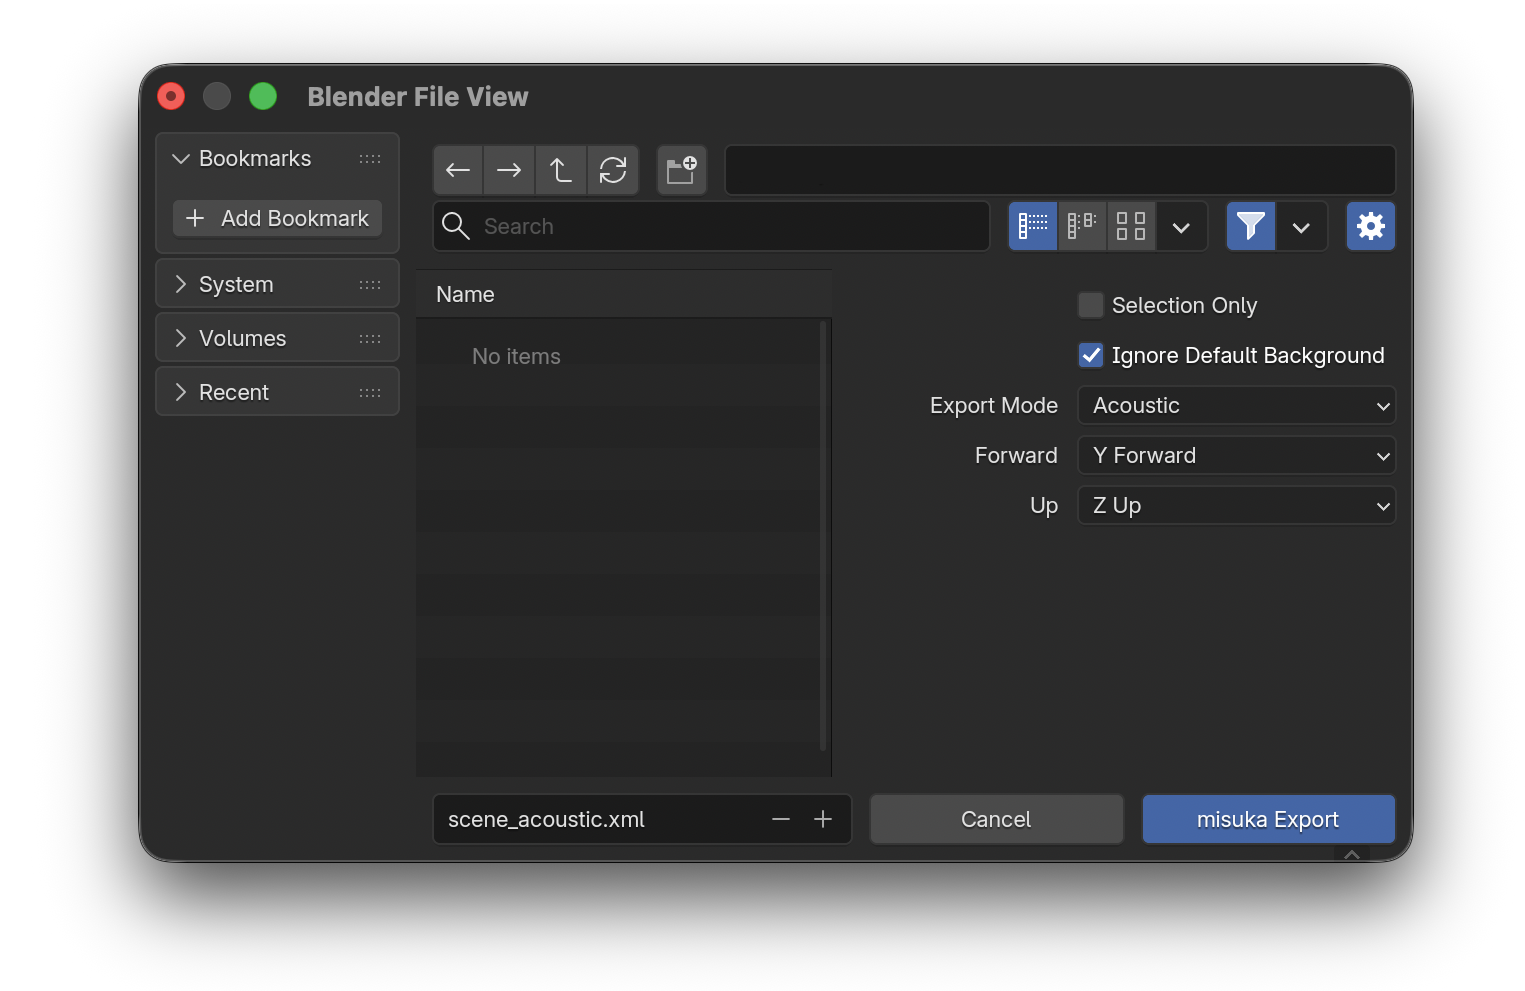
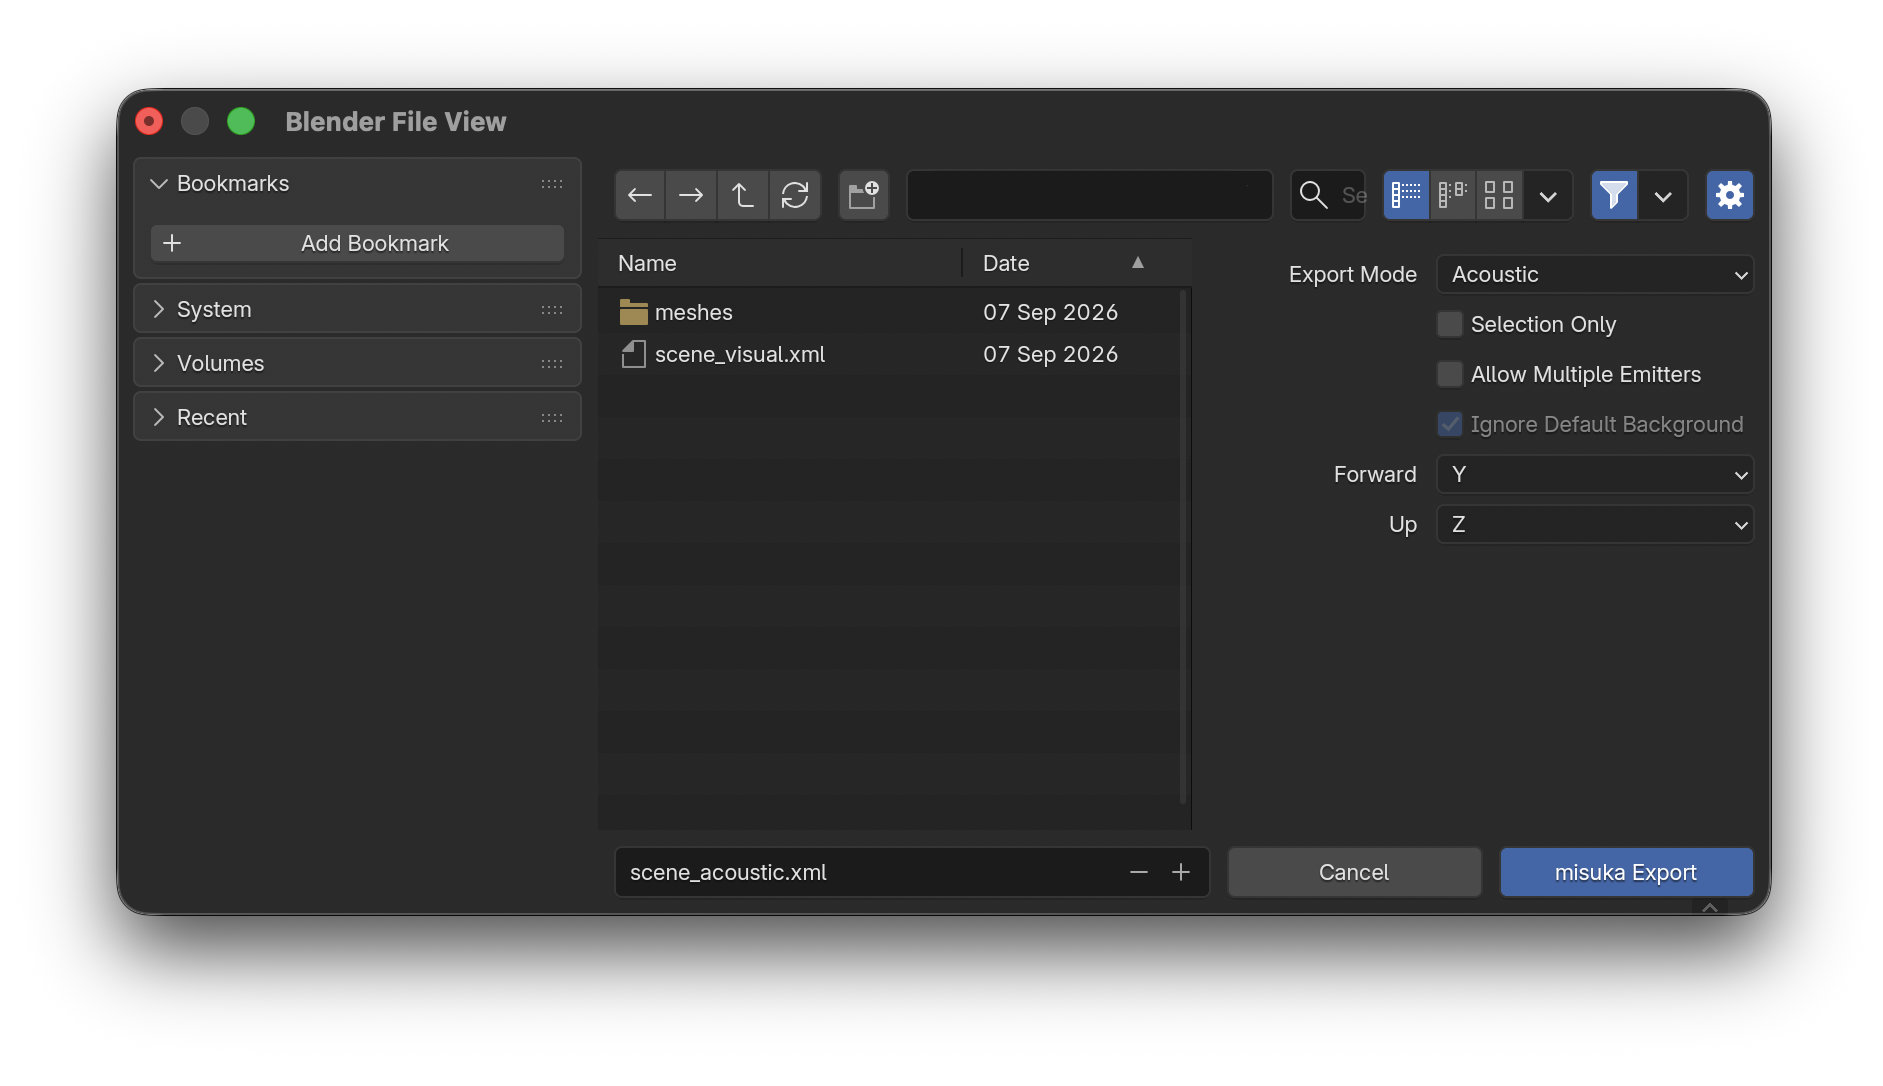
Update the export dialog screenshot

Changed region(s): [[0.0308, 0.0605, 0.9554, 0.9687], [0.5239, 0.2422, 0.5856, 0.333], [0.6472, 0.4541, 0.7089, 0.4844]]

diff --git a/docs/_static/img/README.md b/docs/_static/img/README.md
@@ -71,7 +71,11 @@ Used by `docs/guide/acousticindex.md`.
 
 **File** > **Export** > **misuka (.xml)**.
 
-Show: the options column on the right, with **Export Mode** set to **Acoustic**, plus **Selection Only**, **Ignore Default Background**, **Forward Axis** and **Up Axis**.
+Show: the options column on the right, with **Export Mode** set to **Acoustic**, plus **Selection Only**, **Allow Multiple Emitters**, **Ignore Default Background**, **Forward** and **Up**.
+
+**Ignore Default Background** is greyed out under Acoustic, and so is **Allow Multiple Emitters** under Visual.
+Keep the mode on Acoustic so the shot matches the page around it.
+Capture a scene with one emitter, or the warning box appears under the options.
 
 Used by `docs/guide/exporting.md`.
 
